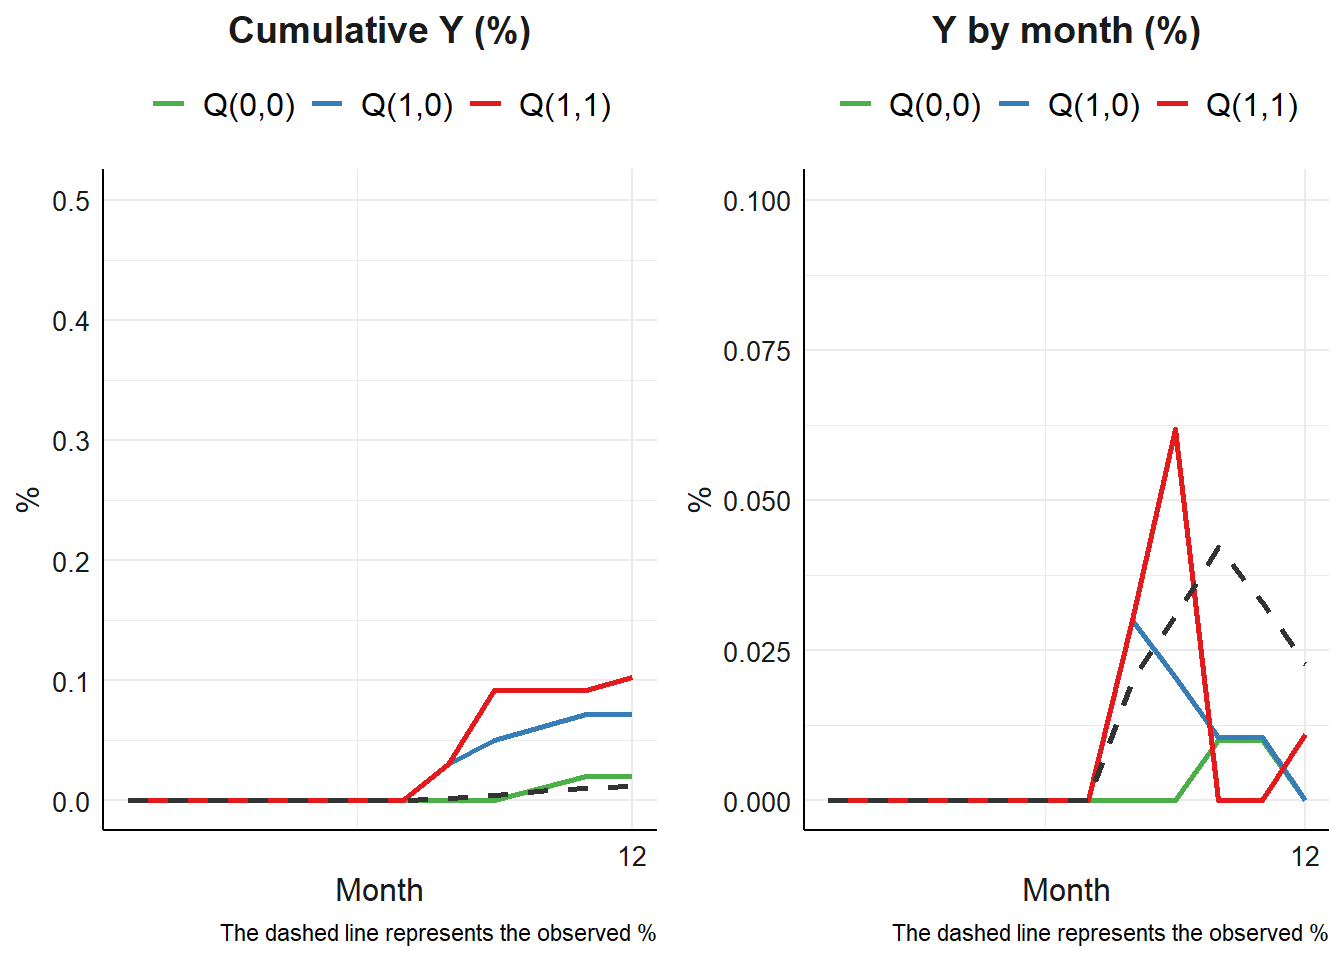
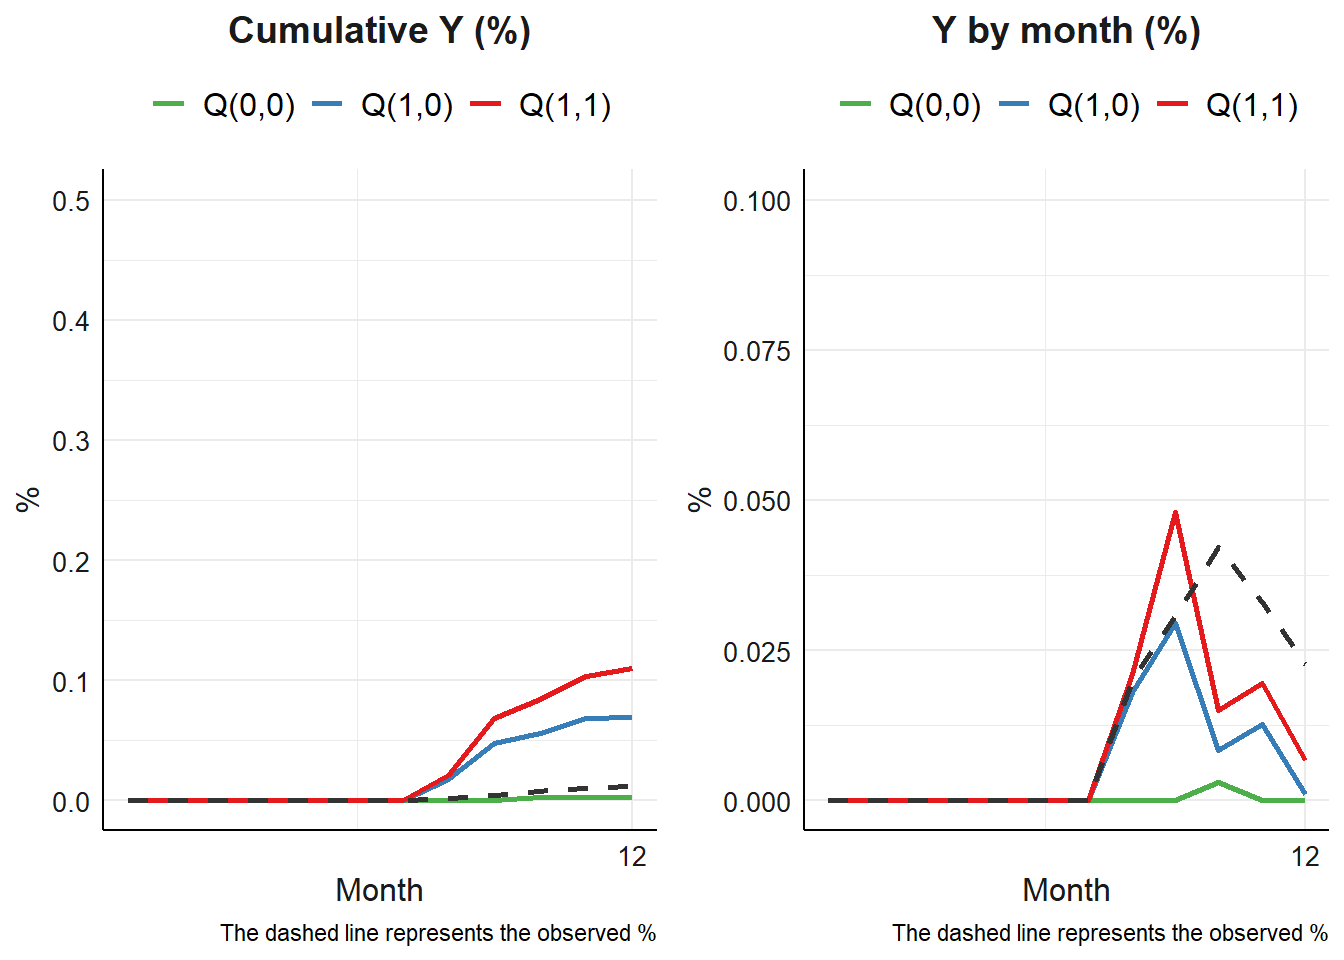
render

Changed region(s): [[0.8125, 0.4688, 0.9688, 0.8438], [0.3125, 0.6875, 0.4688, 0.8438], [0.375, 0.7812, 0.4688, 0.8438]]

diff --git a/Rcode/package final.html b/Rcode/package final.html
@@ -615,7 +615,7 @@ pre > code.sourceCode > span > a:first-child::before { text-decoration: underlin
 </details>
 <div class="cell-output cell-output-stdout">
 <pre><code>$df
-# A tibble: 1,152 × 24
+# A tibble: 1,131 × 24
       id    v1    v2    v3    v4    A1  A1l1    M1  M1l1    L1  L1l1    L2  L2l1
    &lt;int&gt; &lt;dbl&gt; &lt;int&gt; &lt;int&gt; &lt;int&gt; &lt;dbl&gt; &lt;dbl&gt; &lt;dbl&gt; &lt;dbl&gt; &lt;dbl&gt; &lt;dbl&gt; &lt;dbl&gt; &lt;dbl&gt;
  1     1  10.9     1     1     0     0     0     0     0     0     0  100   100 
@@ -628,7 +628,7 @@ pre > code.sourceCode > span > a:first-child::before { text-decoration: underlin
  8     1  10.9     1     1     0     0     0     0     0     0     0  141.  119.
  9     1  10.9     1     1     0     0     0     0     0     0     0  155.  141.
 10     1  10.9     1     1     0     0     0     0     0     0     0  135.  155.
-# ℹ 1,142 more rows
+# ℹ 1,121 more rows
 # ℹ 11 more variables: L3 &lt;dbl&gt;, L3l1 &lt;dbl&gt;, A1l2 &lt;dbl&gt;, M1l2 &lt;dbl&gt;,
 #   L1l2 &lt;dbl&gt;, L2l2 &lt;dbl&gt;, L3l2 &lt;dbl&gt;, Y &lt;dbl&gt;, j &lt;dbl&gt;, bid &lt;chr&gt;, jj &lt;dbl&gt;
 
@@ -639,19 +639,19 @@ Call:  glm(formula = fitM, family = mreg[i], data = res_df)
 
 Coefficients:
     (Intercept)               A1             A1l1             A1l2  
-     -44.543055        17.877325       -21.076465        18.647838  
+     -4.085e+01        2.750e+02        1.624e+02        1.045e+02  
            M1l1             M1l2             L1l1             L2l1  
-      42.300152       -15.331401               NA         0.045326  
+      6.747e+01        3.241e+02               NA       -8.060e-02  
            L3l1             L1l2             L2l2             L3l2  
-       0.010917               NA         0.002579         0.007065  
+      1.078e-01               NA       -1.142e-01        1.221e-01  
              v1               v2               v3               v4  
-      -0.077260         0.510718         1.654087        18.883749  
+      6.412e-02       -2.422e-01       -6.832e-01        2.115e+01  
 bs(jj, df = 3)1  bs(jj, df = 3)2  bs(jj, df = 3)3  
-      -5.369375         8.292476        -2.537280  
+     -1.248e+03        2.410e+02       -1.218e+03  
 
-Degrees of Freedom: 1151 Total (i.e. Null);  1135 Residual
-Null Deviance:      367.1 
-Residual Deviance: 74.86    AIC: 108.9
+Degrees of Freedom: 1130 Total (i.e. Null);  1114 Residual
+Null Deviance:      319.1 
+Residual Deviance: 31.68    AIC: 65.68
 
 
 $L
@@ -661,19 +661,19 @@ Call:  glm(formula = fitL, family = lreg[i], data = res_df)
 
 Coefficients:
     (Intercept)               A1             A1l1             A1l2  
-     -2.657e+01       -2.152e-14       -5.495e-14       -4.398e-14  
+     -2.657e+01        4.255e-15        5.898e-14        2.068e-14  
              M1             M1l1             M1l2             L1l1  
-      6.598e-15       -1.213e-14        5.373e-15               NA  
+      4.193e-14        1.660e-14       -9.079e-15               NA  
            L2l1             L3l1             L1l2             L2l2  
-     -1.970e-16       -1.250e-15               NA       -3.441e-16  
+      4.235e-16        1.231e-15               NA        4.169e-16  
            L3l2               v1               v2               v3  
-     -1.183e-15       -2.638e-15       -4.401e-14       -8.078e-14  
+      1.363e-15        4.327e-15        5.276e-14        7.126e-14  
              v4  bs(jj, df = 3)1  bs(jj, df = 3)2  bs(jj, df = 3)3  
-      8.046e-14        5.865e-13        1.552e-13        3.355e-13  
+     -7.426e-14       -5.692e-13       -1.807e-13       -3.363e-13  
 
-Degrees of Freedom: 1151 Total (i.e. Null);  1134 Residual
+Degrees of Freedom: 1130 Total (i.e. Null);  1113 Residual
 Null Deviance:      0 
-Residual Deviance: 6.683e-09    AIC: 36
+Residual Deviance: 6.562e-09    AIC: 36
 
 $L[[2]]
 
@@ -681,19 +681,19 @@ Call:  glm(formula = fitL, family = lreg[i], data = res_df)
 
 Coefficients:
     (Intercept)               A1             A1l1             A1l2  
-      118.15818          1.87540         -7.95458         -4.78588  
+      115.62181          3.21803         -2.66665         -9.63248  
              M1             M1l1             M1l2             L1l1  
-       -0.92179         -8.97737         -4.57501               NA  
+       -7.80228          0.14945         -4.64262               NA  
            L2l1             L3l1             L1l2             L2l2  
-       -0.04038         -0.07260               NA         -0.01339  
+       -0.06352          0.03682               NA         -0.07390  
            L3l2               v1               v2               v3  
-        0.04341         -0.74564          1.37615          3.07958  
+        0.03616         -0.62375          1.14449          3.24112  
              v4  bs(jj, df = 3)1  bs(jj, df = 3)2  bs(jj, df = 3)3  
-       -1.15460         54.33987         17.76783         35.07001  
+       -2.43149         60.49047         16.57020         35.05358  
 
-Degrees of Freedom: 1151 Total (i.e. Null);  1134 Residual
-Null Deviance:      212600 
-Residual Deviance: 105300   AIC: 8509
+Degrees of Freedom: 1130 Total (i.e. Null);  1113 Residual
+Null Deviance:      209600 
+Residual Deviance: 104900   AIC: 8371
 
 $L[[3]]
 
@@ -701,19 +701,19 @@ Call:  glm(formula = fitL, family = lreg[i], data = res_df)
 
 Coefficients:
     (Intercept)               A1             A1l1             A1l2  
-       96.66386          0.06710         -7.85421         -1.21718  
+     92.1209673        0.7815675       -7.9239479       -2.2350917  
              M1             M1l1             M1l2             L1l1  
-       -8.56359          0.44696         -0.49702               NA  
+     -8.7939164       -3.0050515        2.9729440               NA  
            L2l1             L3l1             L1l2             L2l2  
-       -0.02993          0.02872               NA         -0.04015  
+     -0.0008794       -0.0297720               NA       -0.0062992  
            L3l2               v1               v2               v3  
-       -0.05257         -0.58638          1.01773          0.49765  
+     -0.0199093       -0.5630328        0.6939472        0.4247188  
              v4  bs(jj, df = 3)1  bs(jj, df = 3)2  bs(jj, df = 3)3  
-       -1.07548         60.18047         14.50521         34.69180  
+     -0.3486717       60.2578265       11.6322265       34.0021481  
 
-Degrees of Freedom: 1151 Total (i.e. Null);  1134 Residual
-Null Deviance:      162200 
-Residual Deviance: 66190    AIC: 7974
+Degrees of Freedom: 1130 Total (i.e. Null);  1113 Residual
+Null Deviance:      160800 
+Residual Deviance: 69390    AIC: 7904
 
 
 $Y
@@ -722,21 +722,21 @@ Call:  glm(formula = fitY, family = yreg, data = res_df)
 
 Coefficients:
     (Intercept)               A1             A1l1             A1l2  
-      -356.2724          69.8559         -64.7016          83.7027  
+      -11.80630         -9.83153         -3.55289         19.02595  
              M1             M1l1             M1l2               L1  
-       103.8061          69.3343          50.2055               NA  
+        1.72011          4.61378         -0.42345               NA  
            L1l1               L2             L2l1               L3  
-             NA           1.3821          -2.1956          -2.6802  
+             NA         -0.04050         -0.10289          0.04027  
            L3l1             L1l2             L2l2             L3l2  
-         0.2686               NA          -1.0799           7.7145  
+       -0.01789               NA         -0.01484         -0.16434  
              v1               v2               v3               v4  
-         5.8168         -12.7734        -171.6344          20.5047  
+       -0.19304          0.35703          1.64890         15.69154  
 bs(jj, df = 3)1  bs(jj, df = 3)2  bs(jj, df = 3)3  
-      -343.2232        -390.5028        -166.0935  
+       40.00166         11.06974         17.97781  
 
-Degrees of Freedom: 1151 Total (i.e. Null);  1132 Residual
-Null Deviance:      160 
-Residual Deviance: 3.817e-07    AIC: 40</code></pre>
+Degrees of Freedom: 1130 Total (i.e. Null);  1111 Residual
+Null Deviance:      176.5 
+Residual Deviance: 48.35    AIC: 88.35</code></pre>
 </div>
 </div>
 </section>
@@ -1216,19 +1216,19 @@ $res_df
 <span id="cb25-15"><a href="#cb25-15" aria-hidden="true" tabindex="-1"></a>  <span class="fu">g_form</span>(<span class="at">ii =</span> <span class="dv">2</span>, <span class="at">length =</span> <span class="dv">12</span>, <span class="at">am =</span> <span class="dv">1</span>, <span class="at">ay =</span> <span class="dv">0</span>)</span></code><button title="Copy to Clipboard" class="code-copy-button"><i class="bi"></i></button></pre></div>
 </details>
 <div class="cell-output cell-output-stdout">
-<pre><code>   id id_ori mm Ay Am M1 Yp2 Lmp1     Lmp2      Lmp3 Lp1      Lp2      Lp3
-1   2      2  1  0  1  0   0    0 100.0000  80.00000   0 100.0000  80.0000
-2   2      2  2  0  1  0   0    0 104.3224  85.80513   0 113.8355  94.5789
-3   2      2  3  0  1  0   0    0 112.8802  95.03798   0 122.1013 103.9369
-4   2      2  4  0  1  0   0    0 118.3280 100.46738   0 127.9566 108.9054
-5   2      2  5  0  1  0   0    0 121.3956 102.79926   0 131.0515 111.2225
-6   2      2  6  0  1  0   0    0 122.3850 103.15671   0 131.9929 111.5859
-7   2      2  7  0  1  0   0    0 121.9755 102.26624   0 131.5817 110.6960
-8   2      2  8  0  1  0   0    0 120.8995 100.83500   0 130.5075 109.2656
-9   2      2  9  0  1  0   0    0 119.8471  99.57417   0 129.4552 108.0048
-10  2      2 10  0  1  0   0    0 119.5056  99.19508   0 129.1137 107.6256
-11  2      2 11  0  1  0   0    0 120.5638 100.40979   0 130.1719 108.8403
-12  2      2 12  0  1  0   0    0 123.7106 103.93042   0 133.3187 112.3609
+<pre><code>   id id_ori mm Ay Am M1 Yp2 Lmp1     Lmp2      Lmp3 Lp1      Lp2       Lp3
+1   2      2  1  0  1  0   0    0 100.0000  80.00000   0 100.0000  80.00000
+2   2      2  2  0  1  0   0    0 104.3224  85.80513   0 113.8355  94.57890
+3   2      2  3  0  1  0   0    0 112.8802  95.03798   0 122.1013 103.93689
+4   2      2  4  0  1  0   0    0 118.3280 100.46738   0 127.9566 108.90544
+5   2      2  5  0  1  0   0    0 121.3956 102.79926   0 131.0515 111.22255
+6   2      2  6  0  1  1   0    0 117.8615  95.53745   0 127.4695 103.96661
+7   2      2  7  0  1  1   0    0 112.4122  92.20416   0 122.0183 100.63394
+8   2      2  8  0  1  1   0    0 105.9670  91.59216   0 115.5750 100.02273
+9   2      2  9  0  1  1   0    0 104.8882  90.58958   0 114.4963  99.02017
+10  2      2 10  0  1  1   0    0 104.7621  90.29798   0 114.3702  98.72850
+11  2      2 11  0  1  1   0    0 105.8375  91.50492   0 115.4456  99.93544
+12  2      2 12  0  1  1   0    0 108.9850  95.01811   0 118.5931 103.44863
          v1 v2 v3 v4 lastid
 1  9.278753  0  0  1      0
 2  9.278753  0  0  1      0
@@ -1269,31 +1269,31 @@ $res_df
 </details>
 <div class="cell-output cell-output-stdout">
 <pre><code>   id id_ori mm Ay Am M1 Yp2 Lmp1     Lmp2      Lmp3 Lp1      Lp2       Lp3
-1   2      4  1  0  1  0   0    0 100.0000  80.00000   0 100.0000  80.00000
-2   2      4  2  0  1  0   0    0 106.2271  86.52977   0 114.7611  92.63164
-3   2      4  3  0  1  0   0    0 114.0006  94.82411   0 121.9522 100.92581
-4   2      4  4  0  1  0   0    0 119.2221  99.90138   0 127.8229 106.19500
-5   2      4  5  0  1  0   0    0 122.4235 102.38011   0 131.0041 108.65008
-6   2      4  6  0  1  0   0    0 123.6352 102.91474   0 132.2341 109.20548
-7   2      4  7  0  1  0   0    0 123.5131 102.21135   0 132.1076 108.50188
-8   2      4  8  0  1  0   0    0 122.7060 100.95421   0 131.3029 107.24498
-9   2      4  9  0  1  0   0    0 121.8644  99.85069   0 130.4612 106.14128
-10  2      4 10  0  1  0   0    0 121.6343  99.60844   0 130.2312 105.89912
-11  2      4 11  0  1  0   0    0 122.6649 100.93466   0 131.2617 107.22535
-12  2      4 12  0  1  0   0    0 125.6053 104.53639   0 134.2021 110.82708
+1   2      2  1  0  1  0   0    0 100.0000  80.00000   0 100.0000  80.00000
+2   2      2  2  0  1  0   0    0 105.3951  86.03189   0 114.5013  93.75118
+3   2      2  3  0  1  0   0    0 113.7447  95.08213   0 122.8350 103.21740
+4   2      2  4  0  1  0   0    0 118.8543 100.38081   0 127.9972 107.85437
+5   2      2  5  0  1  0   0    0 121.3871 102.51545   0 130.5598 109.93002
+6   2      2  6  0  1  0   0    0 121.9279 102.78344   0 131.0588 110.23343
+7   2      2  7  0  1  0   0    0 121.1922 101.91178   0 130.3178 109.36637
+8   2      2  8  0  1  0   0    0 119.9450 100.55716   0 129.0746 108.01087
+9   2      2  9  0  1  0   0    0 118.9120  99.40383   0 128.0422 106.85735
+10  2      2 10  0  1  0   0    0 118.8120  99.14039   0 127.9419 106.59386
+11  2      2 11  0  1  0   0    0 120.3670 100.45497   0 129.4969 107.90844
+12  2      2 12  0  1  0   0    0 124.3000 104.03559   0 133.4299 111.48907
          v1 v2 v3 v4 lastid
-1  15.72432  1  1  0      0
-2  15.72432  1  1  0      0
-3  15.72432  1  1  0      0
-4  15.72432  1  1  0      0
-5  15.72432  1  1  0      0
-6  15.72432  1  1  0      0
-7  15.72432  1  1  0      0
-8  15.72432  1  1  0      0
-9  15.72432  1  1  0      0
-10 15.72432  1  1  0      0
-11 15.72432  1  1  0      0
-12 15.72432  1  1  0      1</code></pre>
+1  9.278753  0  0  1      0
+2  9.278753  0  0  1      0
+3  9.278753  0  0  1      0
+4  9.278753  0  0  1      0
+5  9.278753  0  0  1      0
+6  9.278753  0  0  1      0
+7  9.278753  0  0  1      0
+8  9.278753  0  0  1      0
+9  9.278753  0  0  1      0
+10 9.278753  0  0  1      0
+11 9.278753  0  0  1      0
+12 9.278753  0  0  1      1</code></pre>
 </div>
 </div>
 </section>
@@ -1321,16 +1321,32 @@ $res_df
 <span id="cb29-17"><a href="#cb29-17" aria-hidden="true" tabindex="-1"></a>  <span class="fu">g_form</span>(<span class="at">ii =</span> <span class="dv">44</span>, <span class="at">length =</span> <span class="dv">12</span>, <span class="at">am =</span> <span class="dv">1</span>, <span class="at">ay =</span> <span class="dv">0</span>)</span></code><button title="Copy to Clipboard" class="code-copy-button"><i class="bi"></i></button></pre></div>
 </details>
 <div class="cell-output cell-output-stdout">
-<pre><code>  id id_ori mm Ay Am M1 Yp2 Lmp1     Lmp2     Lmp3 Lp1      Lp2       Lp3
-1 44     77  1  0  1  0   0    0 100.0000 80.00000   0 100.0000  80.00000
-2 44     77  2  0  1  1   0    0 113.0792 93.29445   0 121.4119 100.38464
-3 44     77  3  0  1  1   0    0 112.8696 92.31736   0 120.8660  99.67839
-4 44     77  4  0  1  1   1    0 110.2337 97.78985   0 119.0136 104.97634
-        v1 v2 v3 v4 lastid
-1 1.593787  0  0  0      0
-2 1.593787  0  0  0      0
-3 1.593787  0  0  0      0
-4 1.593787  0  0  0      1</code></pre>
+<pre><code>   id id_ori mm Ay Am M1 Yp2 Lmp1     Lmp2      Lmp3 Lp1      Lp2      Lp3
+1  44     72  1  0  1  0   0    0 100.0000  80.00000   0 100.0000  80.0000
+2  44     72  2  0  1  0   0    0 114.2633  92.11067   0 123.5591 102.0080
+3  44     72  3  0  1  0   0    0 123.0521 101.55850   0 132.2799 111.2894
+4  44     72  4  0  1  0   0    0 128.2919 106.27575   0 137.5710 115.2099
+5  44     72  5  0  1  0   0    0 131.0827 108.43496   0 140.3703 117.3952
+6  44     72  6  0  1  0   0    0 131.8279 108.78706   0 141.0560 117.7857
+7  44     72  7  0  1  0   0    0 131.3010 107.91941   0 140.5289 116.9156
+8  44     72  8  0  1  0   0    0 130.2324 106.51806   0 139.4671 115.5142
+9  44     72  9  0  1  0   0    0 129.3128 105.26349   0 138.5474 114.2598
+10 44     72 10  0  1  0   0    0 129.2426 104.83256   0 138.4768 113.8286
+11 44     72 11  0  1  0   0    0 130.7248 105.90379   0 139.9590 114.8999
+12 44     72 12  0  1  0   0    0 134.4613 109.15552   0 143.6955 118.1516
+          v1 v2 v3 v4 lastid
+1  0.1868591  0  1  0      0
+2  0.1868591  0  1  0      0
+3  0.1868591  0  1  0      0
+4  0.1868591  0  1  0      0
+5  0.1868591  0  1  0      0
+6  0.1868591  0  1  0      0
+7  0.1868591  0  1  0      0
+8  0.1868591  0  1  0      0
+9  0.1868591  0  1  0      0
+10 0.1868591  0  1  0      0
+11 0.1868591  0  1  0      0
+12 0.1868591  0  1  0      1</code></pre>
 </div>
 </div>
 </section>
@@ -1702,7 +1718,7 @@ $res_df
 <span id="cb37-32"><a href="#cb37-32" aria-hidden="true" tabindex="-1"></a>})</span></code><button title="Copy to Clipboard" class="code-copy-button"><i class="bi"></i></button></pre></div>
 </details>
 <div class="cell-output cell-output-stdout">
-<pre><code>Test passed 🥇</code></pre>
+<pre><code>Test passed 😀</code></pre>
 </div>
 </div>
 </section>
@@ -2571,7 +2587,7 @@ Indirect: 0.1 (-0.097,-0.002)
 Direct: 0 (0.61,0.99) 
 Total: 0.1 (0.512,0.988) 
 Proportional explain: 1 (-0.195,-0.005) 
-Total time elapsed: 17.42335 secs </code></pre>
+Total time elapsed: 21.29391 secs </code></pre>
 </div>
 </div>
 </section>
@@ -2606,7 +2622,7 @@ Indirect: 0.2
 Direct: 0.4 
 Total: 0.6 
 Proportional explain: 0.333 
-Total time elapsed: 2.986947 secs </code></pre>
+Total time elapsed: 3.869435 secs </code></pre>
 </div>
 </div>
 </section>
@@ -2741,18 +2757,18 @@ Total time elapsed: 2.986947 secs </code></pre>
 <span id="cb73-14"><a href="#cb73-14" aria-hidden="true" tabindex="-1"></a>       <span class="at">mreg =</span> <span class="st">"binomial"</span>,</span>
 <span id="cb73-15"><a href="#cb73-15" aria-hidden="true" tabindex="-1"></a>       <span class="at">lreg =</span> <span class="fu">c</span>(<span class="st">"binomial"</span>,<span class="st">"gaussian"</span>,<span class="st">"gaussian"</span>),</span>
 <span id="cb73-16"><a href="#cb73-16" aria-hidden="true" tabindex="-1"></a>       <span class="at">yreg =</span> <span class="st">"binomial"</span>,<span class="at">dof =</span> <span class="dv">3</span>,</span>
-<span id="cb73-17"><a href="#cb73-17" aria-hidden="true" tabindex="-1"></a>       <span class="at">montecarlo =</span> <span class="dv">100</span>,<span class="at">length =</span> <span class="dv">12</span>,</span>
+<span id="cb73-17"><a href="#cb73-17" aria-hidden="true" tabindex="-1"></a>       <span class="at">montecarlo =</span> <span class="dv">1000</span>,<span class="at">length =</span> <span class="dv">12</span>,</span>
 <span id="cb73-18"><a href="#cb73-18" aria-hidden="true" tabindex="-1"></a>       <span class="at">parallel=</span><span class="cn">TRUE</span>,<span class="at">nboot =</span> <span class="dv">5</span>,<span class="at">ci=</span>.<span class="dv">95</span>)</span></code><button title="Copy to Clipboard" class="code-copy-button"><i class="bi"></i></button></pre></div>
 </details>
 <div class="cell-output cell-output-stdout">
-<pre><code>Q(1,1): 0.1 (0.122,0.217) 
-Q(1,0): 0.07 (0.001,0.279) 
-Q(0,0): 0.02 (0,0.261) 
-Indirect: 0.03 (-0.062,0.184) 
-Direct: 0.05 (0,0.171) 
-Total: 0.08 (-0.051,0.19) 
-Proportional explain: 0.375 (0.072,1) 
-Total time elapsed: 6.919274 mins </code></pre>
+<pre><code>Q(1,1): 0.106 (0.085,0.32) 
+Q(1,0): 0.068 (0.003,0.186) 
+Q(0,0): 0.003 (0,0.102) 
+Indirect: 0.038 (-0.012,0.292) 
+Direct: 0.065 (0,0.175) 
+Total: 0.103 (0.001,0.32) 
+Proportional explain: 0.369 (0.003,1.562) 
+Total time elapsed: 1.231341 hours </code></pre>
 </div>
 </div>
 <div class="cell">
@@ -5053,7 +5069,7 @@ window.document.addEventListener("DOMContentLoaded", function (event) {
 <span id="cb78-2079"><a href="#cb78-2079" aria-hidden="true" tabindex="-1"></a>       <span class="at">mreg =</span> <span class="st">"binomial"</span>,</span>
 <span id="cb78-2080"><a href="#cb78-2080" aria-hidden="true" tabindex="-1"></a>       <span class="at">lreg =</span> <span class="fu">c</span>(<span class="st">"binomial"</span>,<span class="st">"gaussian"</span>,<span class="st">"gaussian"</span>),</span>
 <span id="cb78-2081"><a href="#cb78-2081" aria-hidden="true" tabindex="-1"></a>       <span class="at">yreg =</span> <span class="st">"binomial"</span>,<span class="at">dof =</span> <span class="dv">3</span>,</span>
-<span id="cb78-2082"><a href="#cb78-2082" aria-hidden="true" tabindex="-1"></a>       <span class="at">montecarlo =</span> <span class="dv">100</span>,<span class="at">length =</span> <span class="dv">12</span>,</span>
+<span id="cb78-2082"><a href="#cb78-2082" aria-hidden="true" tabindex="-1"></a>       <span class="at">montecarlo =</span> <span class="dv">1000</span>,<span class="at">length =</span> <span class="dv">12</span>,</span>
 <span id="cb78-2083"><a href="#cb78-2083" aria-hidden="true" tabindex="-1"></a>       <span class="at">parallel=</span><span class="cn">TRUE</span>,<span class="at">nboot =</span> <span class="dv">5</span>,<span class="at">ci=</span>.<span class="dv">95</span>)</span>
 <span id="cb78-2084"><a href="#cb78-2084" aria-hidden="true" tabindex="-1"></a></span>
 <span id="cb78-2085"><a href="#cb78-2085" aria-hidden="true" tabindex="-1"></a></span>
